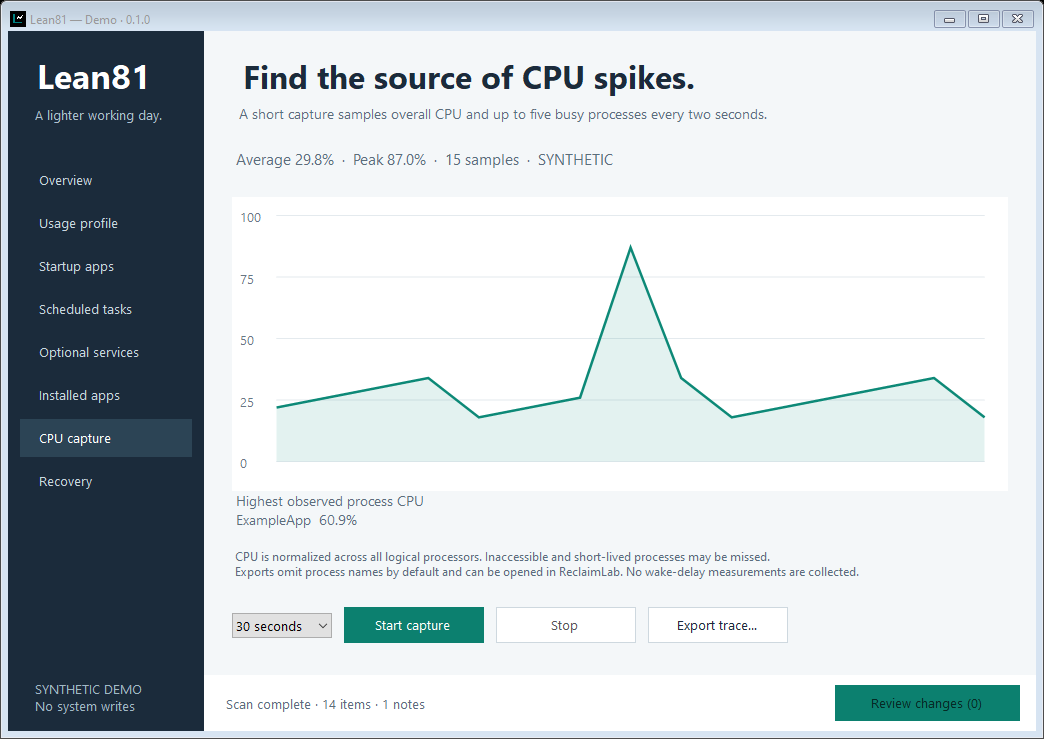
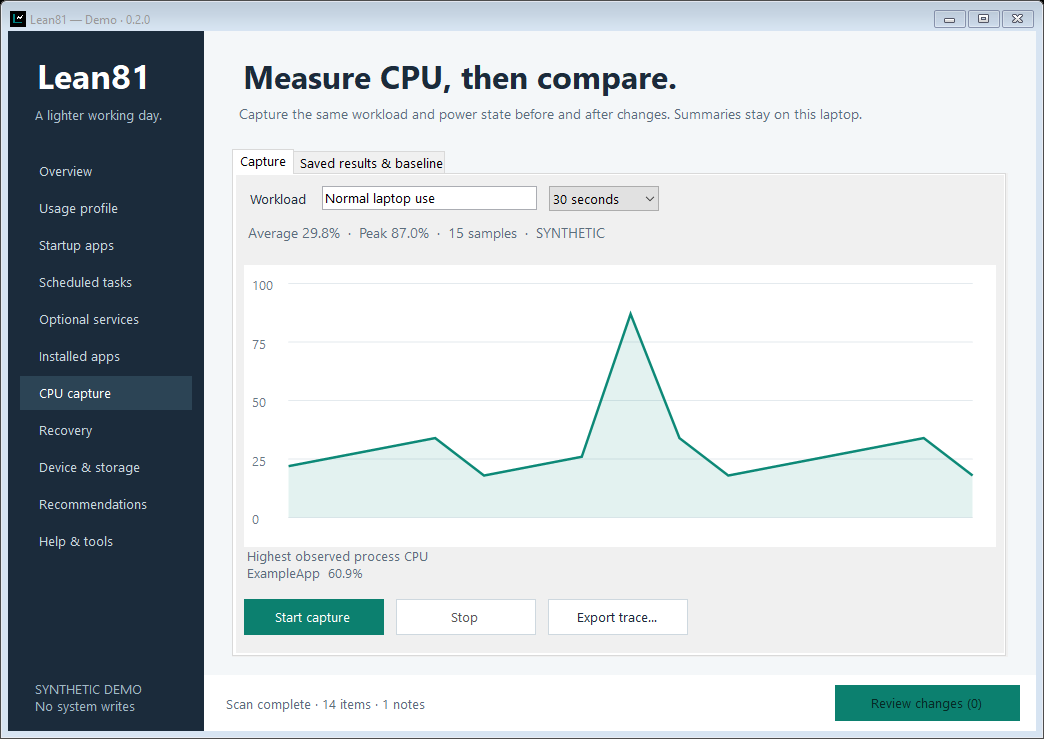
Refresh reviewed v0.2 screenshots and verify standard portable ZIP extraction

diff --git a/src/Lean81/Experience.cs b/src/Lean81/Experience.cs
@@ -108,7 +108,7 @@ namespace Lean81
             var result = new List<Recommendation>();
             if (report == null) { result.Add(new Recommendation { Title = "Start with a scan", Reason = "Build an inventory before making any choices.", Action = "Scan", Page = 0 }); return result; }
             int startup = report.Items.Count(i => i.Kind == "startup" && i.CanChange), services = report.Items.Count(i => i.Kind == "service" && i.CanChange && i.Before != null && Policy.Services.Any(s => String.Equals(s.Name, i.Before.Target, StringComparison.OrdinalIgnoreCase) && !profile.Uses(s.Feature)));
-            if (startup > 0) result.Add(new Recommendation { Title = "Review " + startup + " startup entries", Reason = "Choose apps you recognize and don't need at every sign-in. Idle entries may have little performance cost.", Action = "Review startup", Page = 2 });
+            if (startup > 0) result.Add(new Recommendation { Title = "Review " + startup + (startup == 1 ? " startup entry" : " startup entries"), Reason = "Choose apps you recognize and don't need at every sign-in. Idle entries may have little performance cost.", Action = "Review startup", Page = 2 });
             if (services > 0) result.Add(new Recommendation { Title = services + " optional services match your answers", Reason = "You marked their features unused. Check each tradeoff before selecting anything.", Action = "Review services", Page = 4 });
             else result.Add(new Recommendation { Title = "Tell Lean81 what you use", Reason = "Uncertain features stay enabled. Usage answers unlock specific optional-service choices.", Action = "Usage profile", Page = 1 });
             if (device != null && device.Disks.Any(d => d.LowSpace)) result.Add(new Recommendation { Title = "A fixed drive is low on free space", Reason = "Review storage and open Windows Disk Cleanup if useful. Lean81 does not delete your files.", Action = "Storage", Page = 8 });

diff --git a/README.md b/README.md
@@ -22,6 +22,8 @@ Screenshots show the actual Windows app with synthetic demo data.
 
 [Feature guide](docs/FEATURES.md) · [Privacy and local data](docs/PRIVACY.md)
 
+![Guided quick setup with synthetic choices](docs/screenshots/quick-setup.png)
+
 ## What you can do
 
 - Inspect Run startup entries and select recognized apps to stop launching at sign-in.
@@ -34,6 +36,8 @@ Screenshots show the actual Windows app with synthetic demo data.
 Nothing is disabled automatically. Lean81 does not promise a faster CPU: an idle background item may cost almost nothing. Capture the same workload before and after to see which changes help your machine.
 
 ![Lean81 CPU capture with synthetic data](docs/screenshots/cpu-capture.png)
+
+![Saved CPU comparison with synthetic results](docs/screenshots/comparison.png)
 
 ## Run it
 
